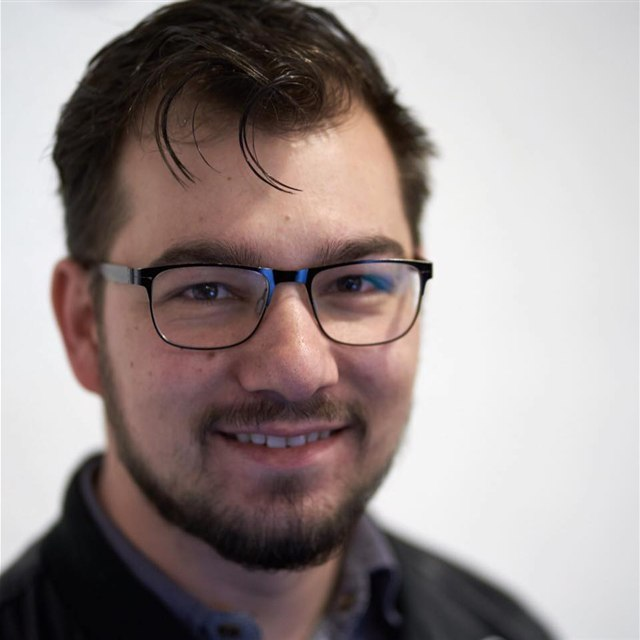
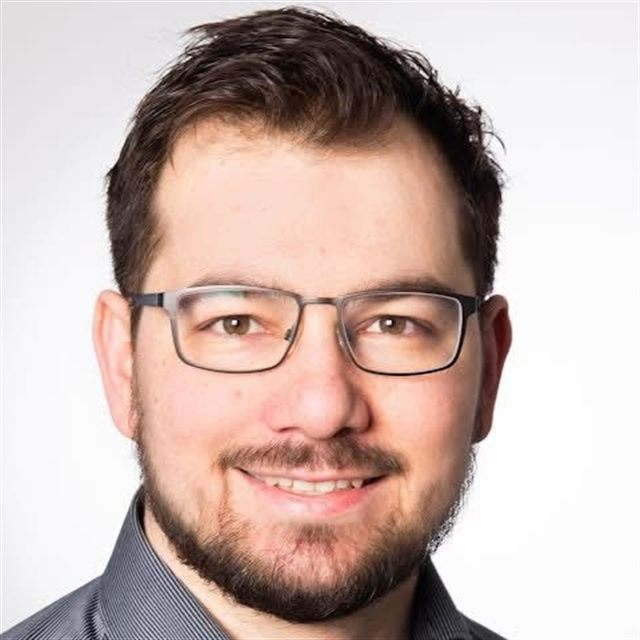
Gruenderfoto aktualisiert: neues Foto (Florin), quadratisch zugeschnitten und komprimiert
Ersetzt static/img/florin.jpg durch aktuelles Foto (WhatsApp-Uebertragung vom
02.07.2026), auf das Gesicht zugeschnitten, auf 640x640 skaliert und als JPEG
(Qualitaet 82, ~46 KB) komprimiert. In README unter Bilder dokumentiert.

diff --git a/README.md b/README.md
@@ -14,6 +14,11 @@ cinematischen Higgsfield-Backdrop.
 - `static/js/main.js` ,  Hero-Canvas, Reveal-on-Scroll, Count-up, Nav-Status.
 - `landing/views.py` ,  rendert die Seite, nimmt das Kontaktformular per POST entgegen.
 
+## Bilder
+- `static/img/florin.jpg` — Gründerfoto (Florin Feier). Aktualisiert am 02.07.2026:
+  neues Foto aus WhatsApp-Übertragung, quadratisch auf das Gesicht zugeschnitten,
+  auf 640×640 skaliert und als JPEG (Qualität 82, ~46 KB) komprimiert.
+
 ## Lokal starten
 ```bash
 pip install -r requirements.txt